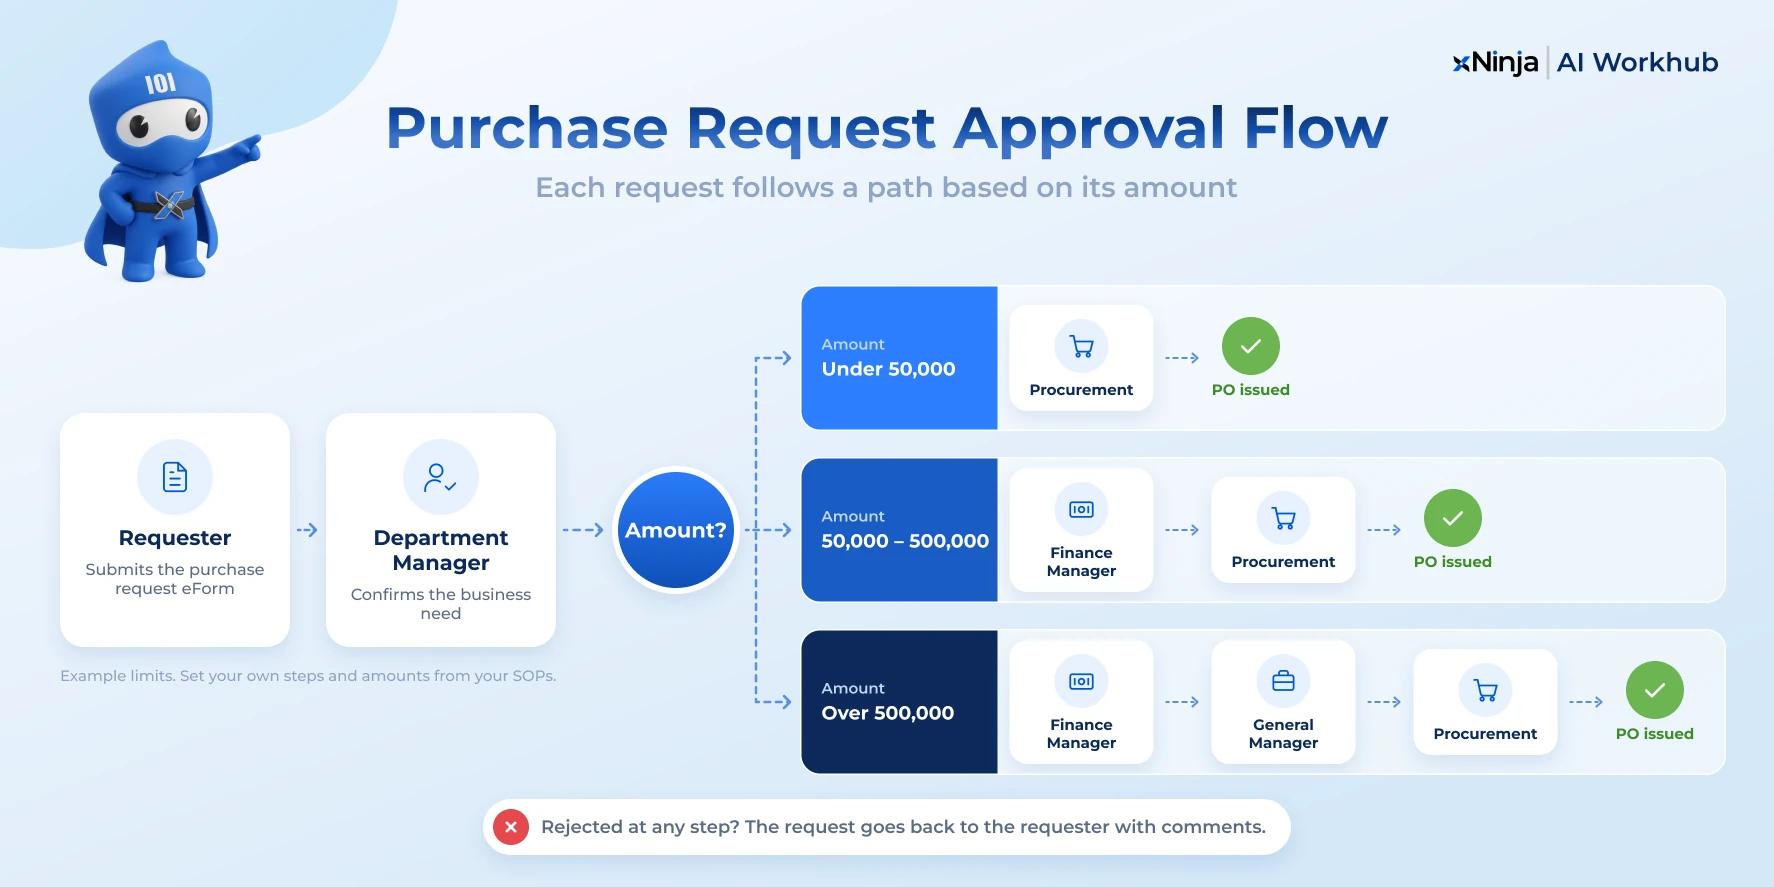
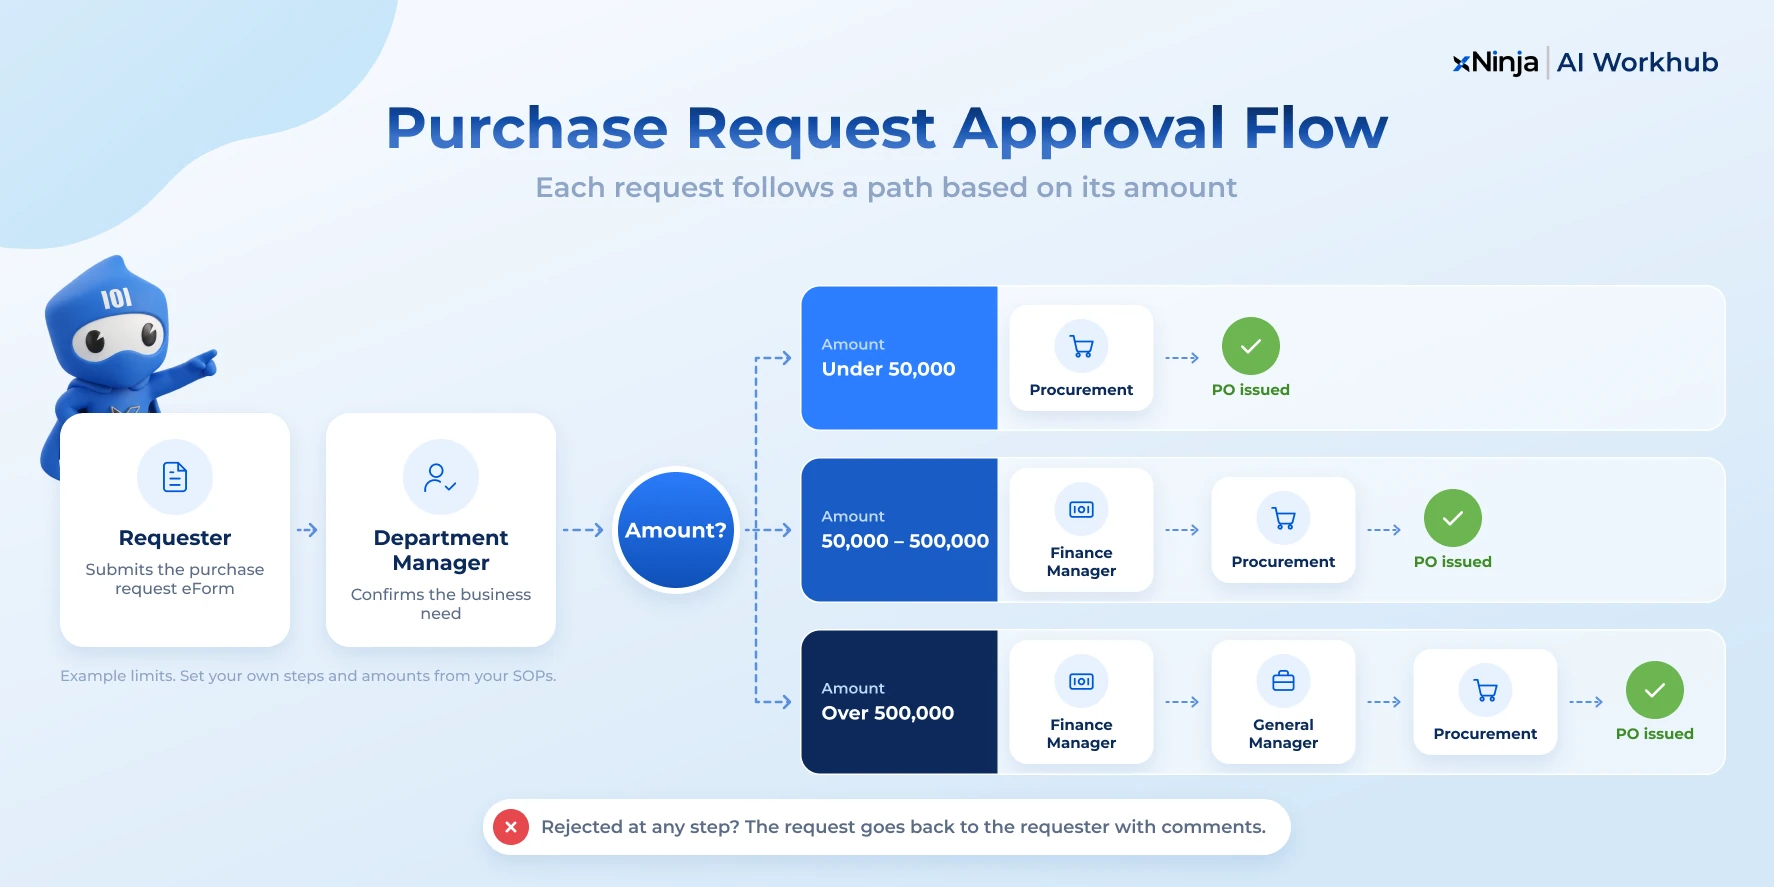
Manufacturers article: update purchase request flow illustration (mascot repositioned)
Claude-Session: https://claude.ai/code/session_01A9snRA9oqm95MgtZ4qJjKL

Changed region(s): [[0.0, 0.0304, 0.155, 0.487], [0.0, 0.487, 0.031, 0.5479]]

diff --git a/th/articles/maximize-eForm-with-xNinja/how-manufacturers-can-digitize-forms-and-approval-workflows/index.html b/th/articles/maximize-eForm-with-xNinja/how-manufacturers-can-digitize-forms-and-approval-workflows/index.html
@@ -208,7 +208,7 @@
           <h2 id="design-workflows-h">วิธีออกแบบขั้นตอนการอนุมัติ</h2>
           <p>ขั้นตอนงานดิจิทัลที่ดีควรสะท้อนวิธีการตัดสินใจที่ควรเป็น ไม่ใช่แค่คัดลอกเส้นทางเดิมของแบบฟอร์มกระดาษ ก่อนสร้าง ให้ยืนยันว่าใครต้องตรวจสอบคำขอแต่ละรายการ ทำไมต้องตรวจสอบ และจะเกิดอะไรขึ้นหากคำตอบคือไม่อนุมัติ</p>
           <p>ตัวอย่างด้านล่างแสดงให้เห็นว่าคำขอซื้อสามารถเดินตามเส้นทางที่ต่างกันได้ตามมูลค่า ขั้นตอนและวงเงินจริงควรมาจาก SOP ของคุณ</p>
-          <figure><img src="../../../../assets/img/articles/purchaseRequestFlow.webp" alt="ตัวอย่างขั้นตอนการอนุมัติคำขอซื้อ" width="1774" height="887" loading="lazy"></figure>
+          <figure><img src="../../../../assets/img/articles/purchaseRequestFlow.webp?v=2" alt="ตัวอย่างขั้นตอนการอนุมัติคำขอซื้อ" width="1774" height="887" loading="lazy"></figure>
           <p>ในการออกแบบขั้นตอนงาน ให้คำนึงถึงหลักการต่อไปนี้:</p>
           <ul class="check-list">
             <li><strong>ตัดขั้นตอนที่ไม่จำเป็นออก</strong> เก็บขั้นตอนการอนุมัติไว้เฉพาะเมื่อผู้นั้นต้องตัดสินใจจริง</li>

diff --git a/articles/maximize-eForm-with-xNinja/how-manufacturers-can-digitize-forms-and-approval-workflows/index.html b/articles/maximize-eForm-with-xNinja/how-manufacturers-can-digitize-forms-and-approval-workflows/index.html
@@ -208,7 +208,7 @@
           <h2 id="design-workflows-h">How to design approval workflows</h2>
           <p>A good digital workflow reflects how decisions should be made, not just how the paper form has always moved. Before building it, confirm who needs to review each request, why they need to review it, and what happens if the answer is no.</p>
           <p>The example below shows how a purchase request can follow different paths depending on its value. Your own steps and spending limits should come from your SOPs.</p>
-          <figure><img src="../../../assets/img/articles/purchaseRequestFlow.webp" alt="Example purchase request approval flow: the requester submits an eForm and the department manager approves it, then the amount sets the path. Under 50,000 goes to procurement; 50,000 to 500,000 adds the finance manager; over 500,000 adds the finance manager and general manager. Rejected requests return to the requester with comments." width="1774" height="887" loading="lazy"></figure>
+          <figure><img src="../../../assets/img/articles/purchaseRequestFlow.webp?v=2" alt="Example purchase request approval flow: the requester submits an eForm and the department manager approves it, then the amount sets the path. Under 50,000 goes to procurement; 50,000 to 500,000 adds the finance manager; over 500,000 adds the finance manager and general manager. Rejected requests return to the requester with comments." width="1774" height="887" loading="lazy"></figure>
           <p>When designing your workflow, keep these principles in mind:</p>
           <ul class="check-list">
             <li><strong>Remove unnecessary steps.</strong> Keep an approval only if that person is making a real decision.</li>

diff --git a/tw/articles/maximize-eForm-with-xNinja/how-manufacturers-can-digitize-forms-and-approval-workflows/index.html b/tw/articles/maximize-eForm-with-xNinja/how-manufacturers-can-digitize-forms-and-approval-workflows/index.html
@@ -208,7 +208,7 @@
           <h2 id="design-workflows-h">如何設計簽核流程</h2>
           <p>好的數位流程應反映決策該如何做出，而不只是複製紙本表單一貫的傳遞方式。建置之前，先確認每張申請需要由誰審查、為何需要審查，以及被駁回時該如何處理。</p>
           <p>以下範例說明請購單如何依金額走不同的簽核路徑。實際步驟與金額門檻應依照您的 SOP 訂定。</p>
-          <figure><img src="../../../../assets/img/articles/purchaseRequestFlow.webp" alt="請購單簽核流程範例" width="1774" height="887" loading="lazy"></figure>
+          <figure><img src="../../../../assets/img/articles/purchaseRequestFlow.webp?v=2" alt="請購單簽核流程範例" width="1774" height="887" loading="lazy"></figure>
           <p>設計流程時，請把握以下原則：</p>
           <ul class="check-list">
             <li><strong>刪除不必要的步驟。</strong>只有在該簽核人確實需要做決定時才保留這一關。</li>
